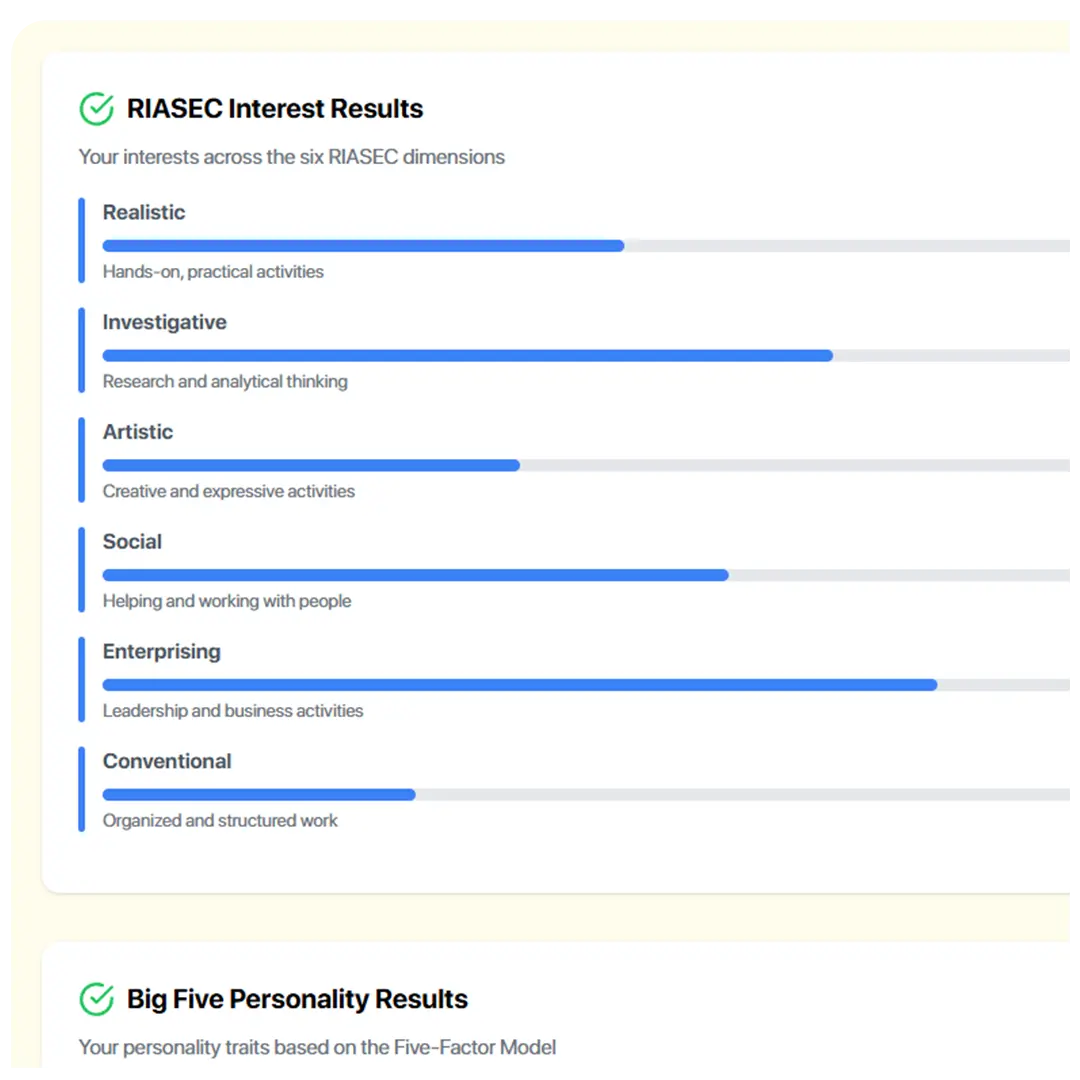
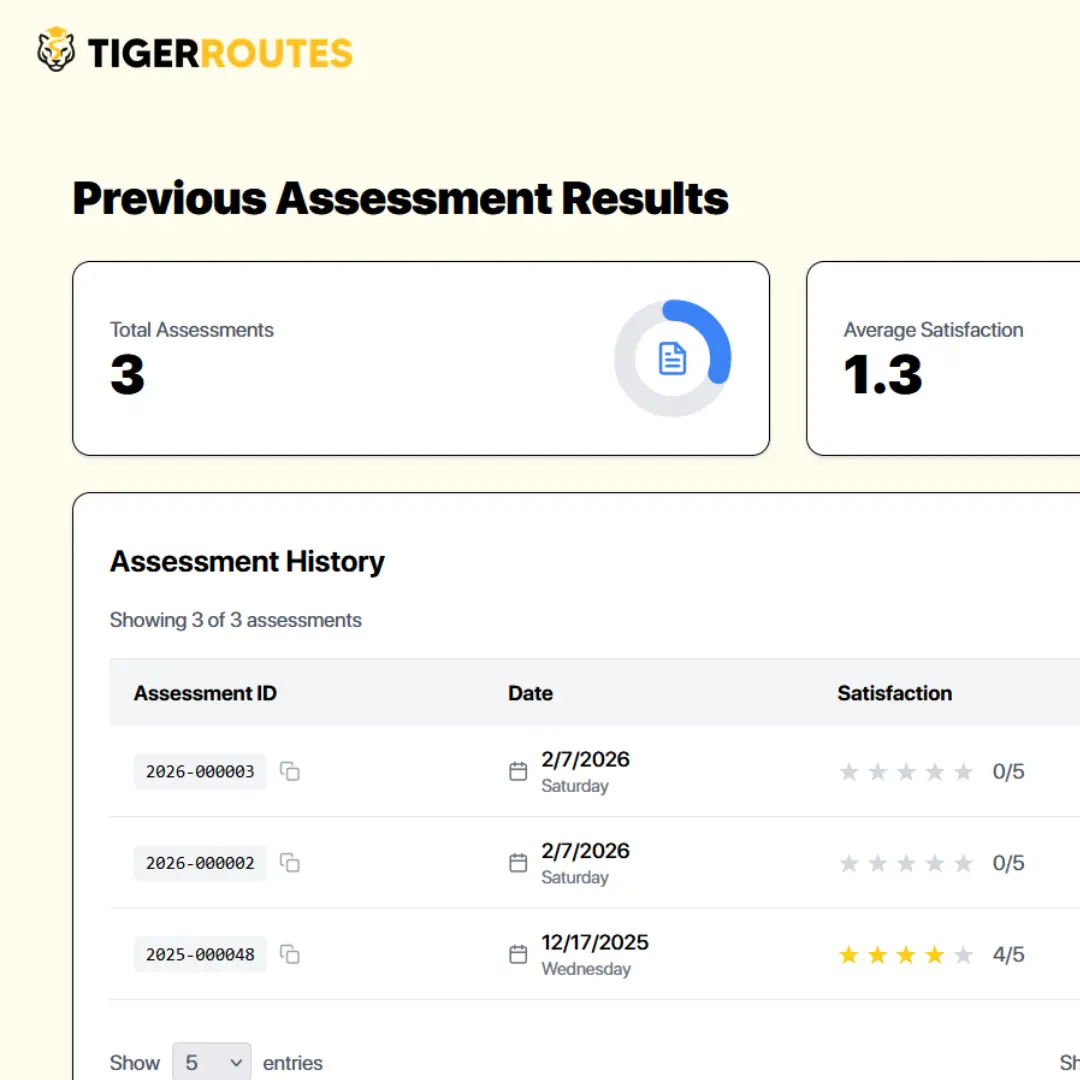
Add new mockup images for chatbot FAQ and dashboard analytics; update previous results image and adjust layout in MockupFeatures component.

diff --git a/src/Visitor-side/MockupFeatures.jsx b/src/Visitor-side/MockupFeatures.jsx
@@ -121,7 +121,7 @@ const MockupFeatures = () => {
             <div className="pointer-events-none absolute -inset-8 rounded-[40px] bg-[#F5C400]/25 blur-3xl" />
 
             <div className="relative rounded-[28px] border border-black/10 bg-white p-3 shadow-2xl shadow-[#F5C400]/25">
-              <div className="aspect-square w-full max-w-[520px] overflow-hidden rounded-[22px] bg-white">
+              <div className="aspect-square w-full max-w-[760px] overflow-hidden rounded-[22px] bg-white">
                 {/* Fade swap */}
                 <img
                   key={active.imageSrc}
